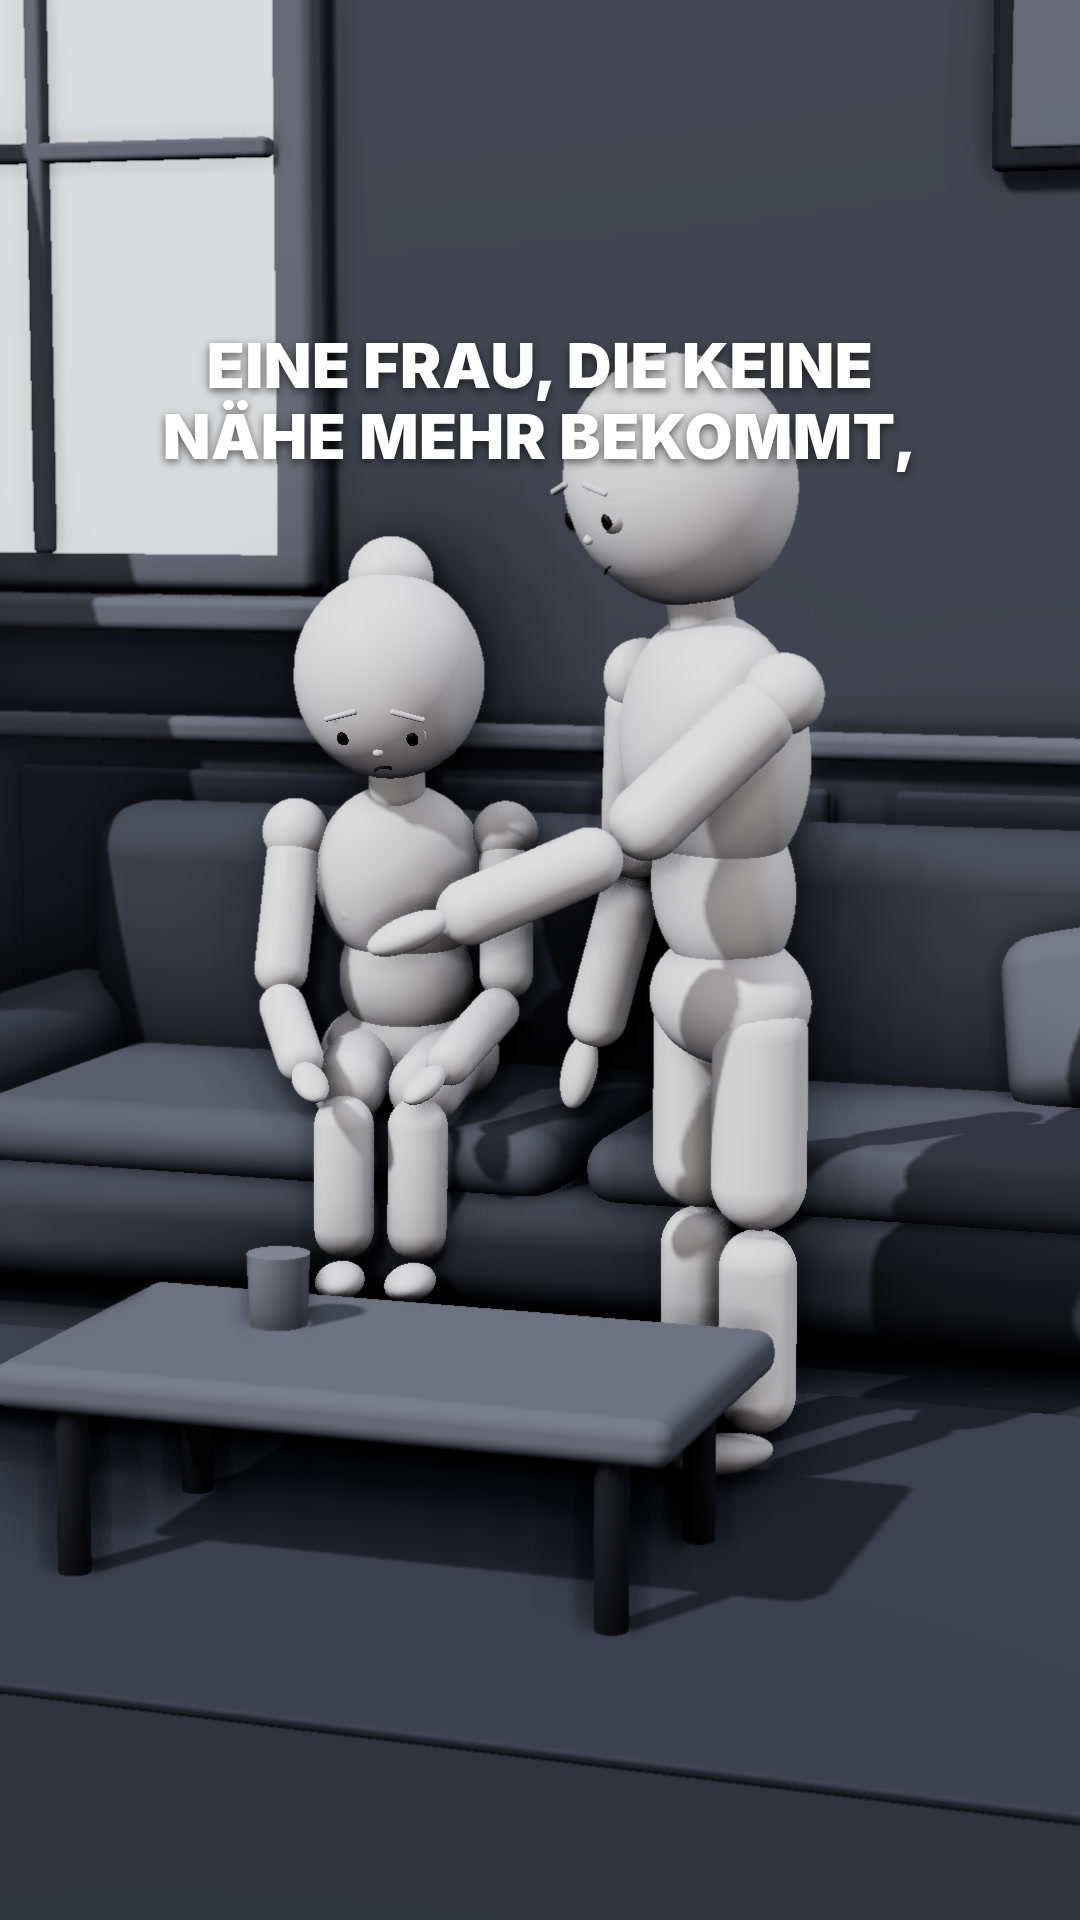
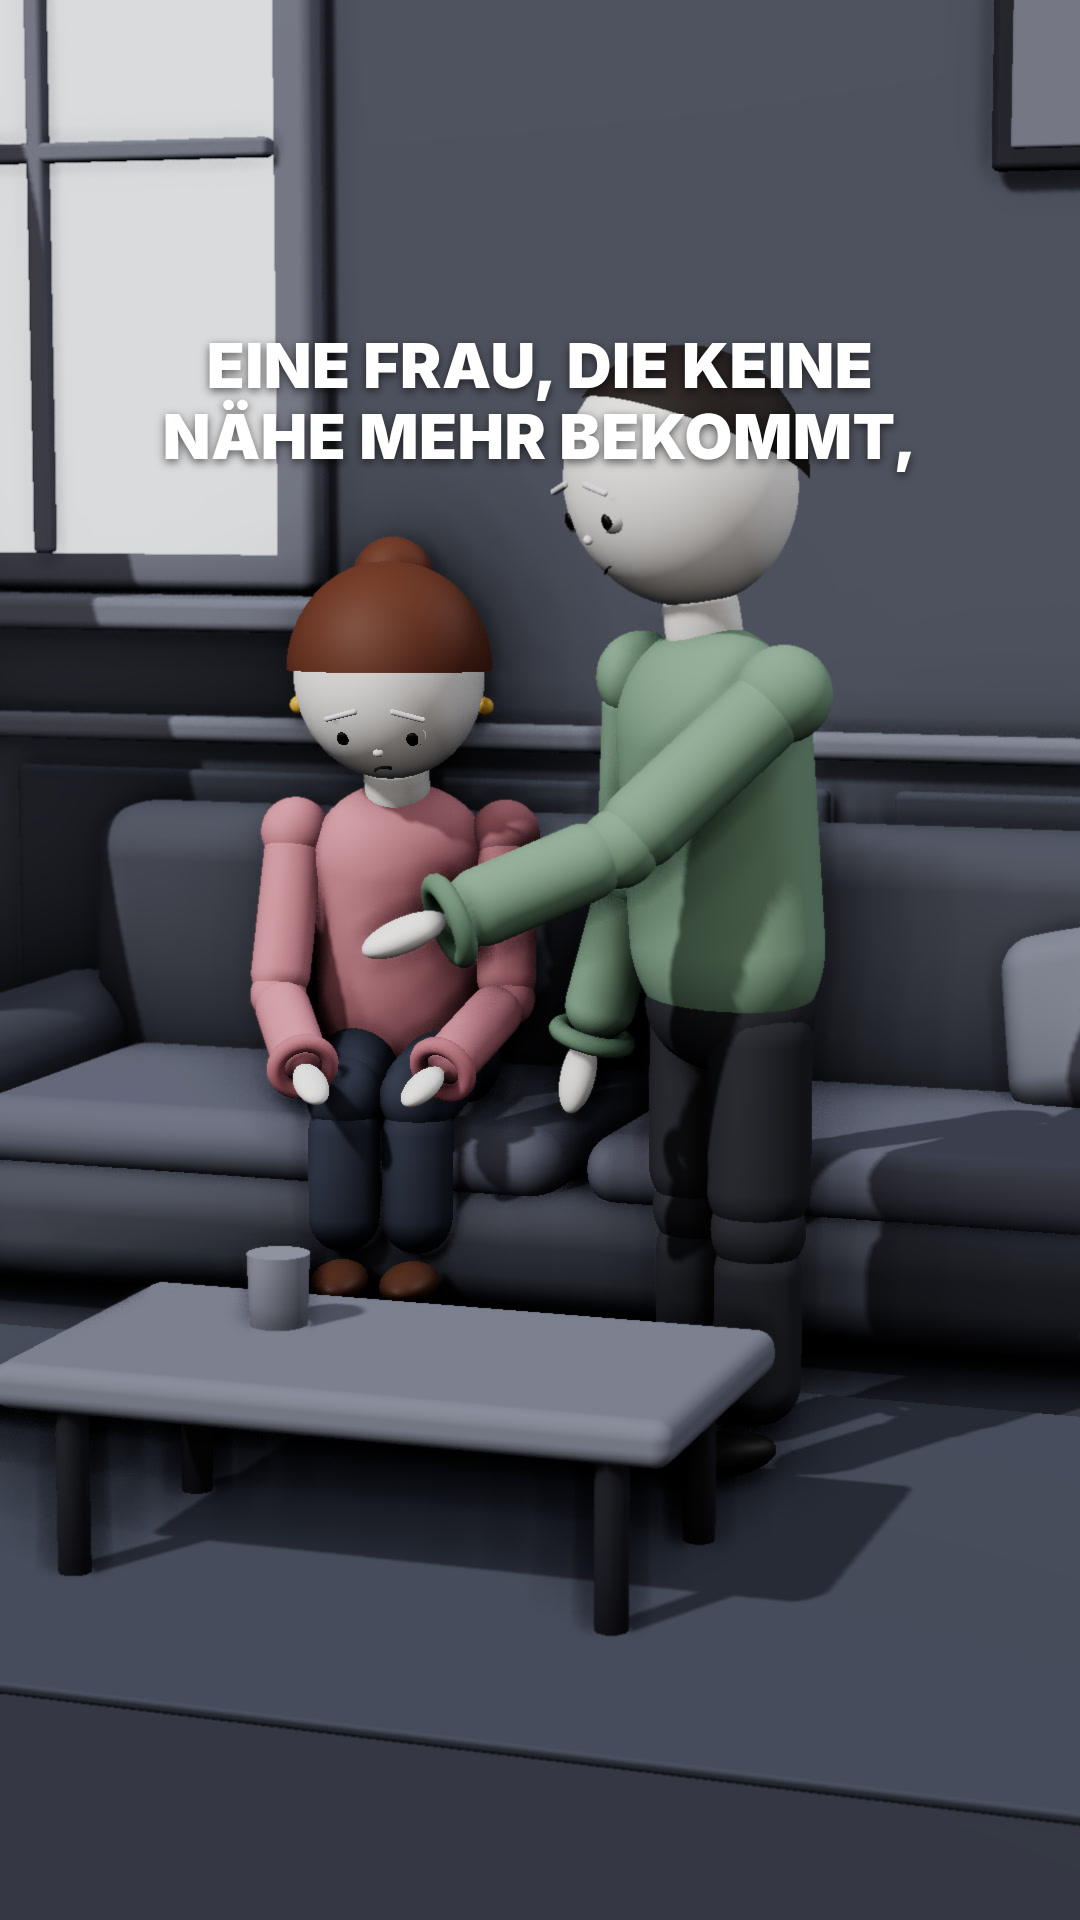
Dress the mannequins: sweaters, trousers, shoes, hair; cleaner joints
Claude-Session: https://claude.ai/code/session_01FQFJKx8X2643G2hLZWtcZT

diff --git a/manikin_style/clay/lib/figure.js b/manikin_style/clay/lib/figure.js
@@ -122,33 +122,53 @@ export function makeFigure(kind) {
   return J;
 }
 
-// ---------------------------------------------------------------- mannequin (mono mode): capsules on the FK rig
-const MK = new THREE.MeshStandardMaterial({ color: '#e6e6ea', roughness: 0.55, metalness: 0 });
-function cap(parent, r, len, y0, sx = 1, sz = 1) {     // capsule hanging from y0 down by len in the parent's frame
-  const m = M(new THREE.CapsuleGeometry(r, Math.max(0.001, len - 2 * r), 8, 24), MK, parent); m.position.y = y0 - len / 2; m.scale.set(sx, 1, sz); return m;
+// ---------------------------------------------------------------- mannequin (mono mode): capsules on the FK rig, dressed
+const mat = (c, r = 0.6) => new THREE.MeshStandardMaterial({ color: c, roughness: r, metalness: 0 });
+const MK = mat('#e9e8e6', 0.5);
+const CLOTH = {
+  w: { top: mat('#c98a93', 0.85), cuff: mat('#bb7c86', 0.9), legs: mat('#3a4150', 0.8), shoe: mat('#5a3a2a', 0.5), hair: mat('#6b3e2a', 0.65) },
+  m: { top: mat('#7d9a84', 0.85), cuff: mat('#6f8b76', 0.9), legs: mat('#33363d', 0.8), shoe: mat('#2c2826', 0.5), hair: mat('#2e2624', 0.7) },
+};
+function capM(parent, r, len, y0, m, sx = 1, sz = 1) {
+  const g = M(new THREE.CapsuleGeometry(r, Math.max(0.001, len - 2 * r), 10, 32), m, parent); g.position.y = y0 - len / 2; g.scale.set(sx, 1, sz); return g;
 }
+function ringM(parent, r, t, y, m) { const g = M(new THREE.TorusGeometry(r, t, 12, 40), m, parent); g.rotation.x = Math.PI / 2; g.position.y = y; return g; }
 function buildManikin(J, isW) {
-  const d = J.dims, R = J.R;
-  // torso: chest + waist + pelvis
-  const chestR = isW ? 0.105 : 0.125;
-  const ch = ball(J.spine, chestR, MK, 0, d.torso * 0.72, 0, 1.15, 1.25, 0.78);
-  ball(J.spine, isW ? 0.085 : 0.095, MK, 0, d.torso * 0.32, 0, 1.1, 1.2, 0.8);
-  ball(J.pelvis, isW ? 0.11 : 0.105, MK, 0, 0.0, 0, 1.15, 0.75, 0.8);
-  if (isW) for (const s of [-1, 1]) ball(J.spine, 0.04, MK, s * 0.045, d.torso * 0.64, 0.045, 1, 0.85, 0.6);
-  cap(J.neck, 0.038, 0.12, 0.12);
-  // limbs
+  const d = J.dims, R = J.R, C = CLOTH[isW ? 'w' : 'm'];
+  // torso: one smooth sweater capsule from the pelvis to the shoulders, slightly flattened front-to-back
+  const tr = isW ? 0.112 : 0.13;
+  capM(J.spine, tr, d.torso + 0.09, d.torso + 0.03, C.top, 1.12, 0.78);
+  ringM(J.neck, 0.05, 0.014, -0.005, C.cuff);                             // round neckline
+  // hips / legs
+  const lr = isW ? 0.056 : 0.06;
+  ball(J.pelvis, isW ? 0.115 : 0.112, C.legs, 0, -0.01, 0, 1.12, 0.7, 0.8);
+  capM(J.neck, 0.044, 0.11, 0.1, MK);
   for (const k of ['L', 'R']) {
-    ball(J['sh' + k], 0.045, MK);
-    cap(J['sh' + k], isW ? 0.036 : 0.042, d.upper, 0.0);
-    cap(J['el' + k], isW ? 0.031 : 0.036, d.fore, 0.0);
-    ball(J['ha' + k], isW ? 0.03 : 0.034, MK, 0, -0.035, 0.005, 0.8, 1.4, 0.55);
-    cap(J['hip' + k], isW ? 0.05 : 0.055, d.thigh + 0.02, 0.02);
-    cap(J['kn' + k], isW ? 0.04 : 0.045, d.shin, 0.0);
-    ball(J['an' + k], 0.038, MK, 0, -0.02, 0.045, 0.85, 0.6, 1.7);
+    ball(J['sh' + k], isW ? 0.047 : 0.054, C.top);
+    capM(J['sh' + k], isW ? 0.04 : 0.046, d.upper + 0.02, 0.01, C.top);
+    ball(J['el' + k], isW ? 0.038 : 0.044, C.top);
+    capM(J['el' + k], isW ? 0.037 : 0.043, d.fore - 0.01, 0.0, C.top);
+    ringM(J['ha' + k], isW ? 0.036 : 0.042, 0.012, 0.012, C.cuff);
+    ball(J['ha' + k], isW ? 0.03 : 0.034, MK, 0, -0.04, 0.005, 0.78, 1.45, 0.55);
+    capM(J['hip' + k], lr, d.thigh + 0.03, 0.02, C.legs);
+    ball(J['kn' + k], lr * 0.92, C.legs);
+    capM(J['kn' + k], lr * 0.85, d.shin - 0.01, 0.0, C.legs);
+    ball(J['an' + k], 0.042, C.shoe, 0, -0.02, 0.05, 0.9, 0.62, 1.75);
   }
-  // head: slightly egg-shaped
-  const h = ball(J.head, R, MK, 0, 0, 0, 0.94, 1.06, 0.98);
-  if (isW) ball(J.head, R * 0.42, MK, 0, R * 0.62, -R * 0.72);   // bun
+  // head (egg) + hair
+  ball(J.head, R, MK, 0, 0, 0, 0.94, 1.06, 0.98);
+  if (isW) {
+    const cap = M(new THREE.SphereGeometry(R * 1.035, 48, 24, 0, Math.PI * 2, 0, Math.PI * 0.5), C.hair, J.head);
+    cap.position.set(0, R * 0.04, -R * 0.04); cap.rotation.x = -0.75; cap.scale.set(0.98, 1.04, 1.02);
+    // side-parted front edge: a soft roll along the hairline
+    const roll = M(new THREE.TorusGeometry(R * 0.86, R * 0.09, 12, 40, Math.PI * 0.95), C.hair, J.head);
+    roll.position.set(0, R * 0.22, R * 0.2); roll.rotation.set(-0.95, 0, 0.05 + Math.PI * 0.025);
+    ball(J.head, R * 0.4, C.hair, 0, R * 0.55, -R * 0.82);                // bun
+    for (const s of [-1, 1]) ball(J.head, 0.012, mat('#e2b545', 0.3), s * R * 0.93, -R * 0.3, R * 0.12);   // earrings
+  } else {
+    const cap = M(new THREE.SphereGeometry(R * 1.035, 48, 24, 0, Math.PI * 2, 0, Math.PI * 0.42), C.hair, J.head);
+    cap.position.set(0, R * 0.06, -R * 0.06); cap.rotation.x = -0.8; cap.scale.set(0.98, 1.0, 1.02);
+  }
   J.manikin = true;
 }
 

diff --git a/manikin_style/clay/index.html b/manikin_style/clay/index.html
@@ -30,10 +30,10 @@ window.MONO = Q.get('mono') === '1';
 const shot = SHOTS[Q.get('shot') || 'sofa'];
 if (window.MONO) {
   const W = '#e8e8ec';
-  for (const k of ['skin','skinSh','dress','shirt','pants','skirt','shoeM','shoeW','stubble']) MAT[k].color.set(W);
+  for (const k of ['skin','skinSh']) MAT[k].color.set('#e9e8e6');
   MAT.hairW.color.set('#d9d9de'); MAT.hairM.color.set('#d4d4d9'); MAT.blush.visible = false; MAT.gold.color.set(W);
   MAT.mouth.color.set('#2a2a30'); MAT.mouthIn.color.set('#202026');
-  const dark = { wall: '#4b4f5b', wall2: '#444854', floor: '#3a3d47', wood: '#555965', dark: '#2c2e36', mid: '#474b56', soft: '#5a5e6a', light: '#6a6e7a', white: '#7a7e8a' };
+  const dark = { wall: '#555a66', wall2: '#4c515d', floor: '#3e414b', wood: '#5d6170', dark: '#2e3038', mid: '#4d515c', soft: '#626674', light: '#757986', white: '#858996' };
   for (const [k, c] of Object.entries(dark)) SM[k].color.set(c);
   SM.glass.color.set('#e9ecf2'); SM.night.color.set('#2a3348');
 }

diff --git a/manikin_style/README.md b/manikin_style/README.md
@@ -1,7 +1,7 @@
 # Манекены в стиле psyamour (наша версия)
 
 Основа — 3D-конвейер `tiktok_de/clay` (three.js, Playwright), сюда скопирован с режимом `mono=1`:
-белые фигуры-манекены из капсул на том же скелете (`buildManikin` в `lib/figure.js`), простые лица,
+фигуры-манекены из капсул в одежде (она — розовый свитер, джинсы; он — шалфейный свитер, брюки), белые лицо и руки, на том же скелете (`buildManikin` в `lib/figure.js`), простые лица,
 у неё пучок, тёмная серо-синяя квартира, субтитры сверху капсом.
 
 ```bash
